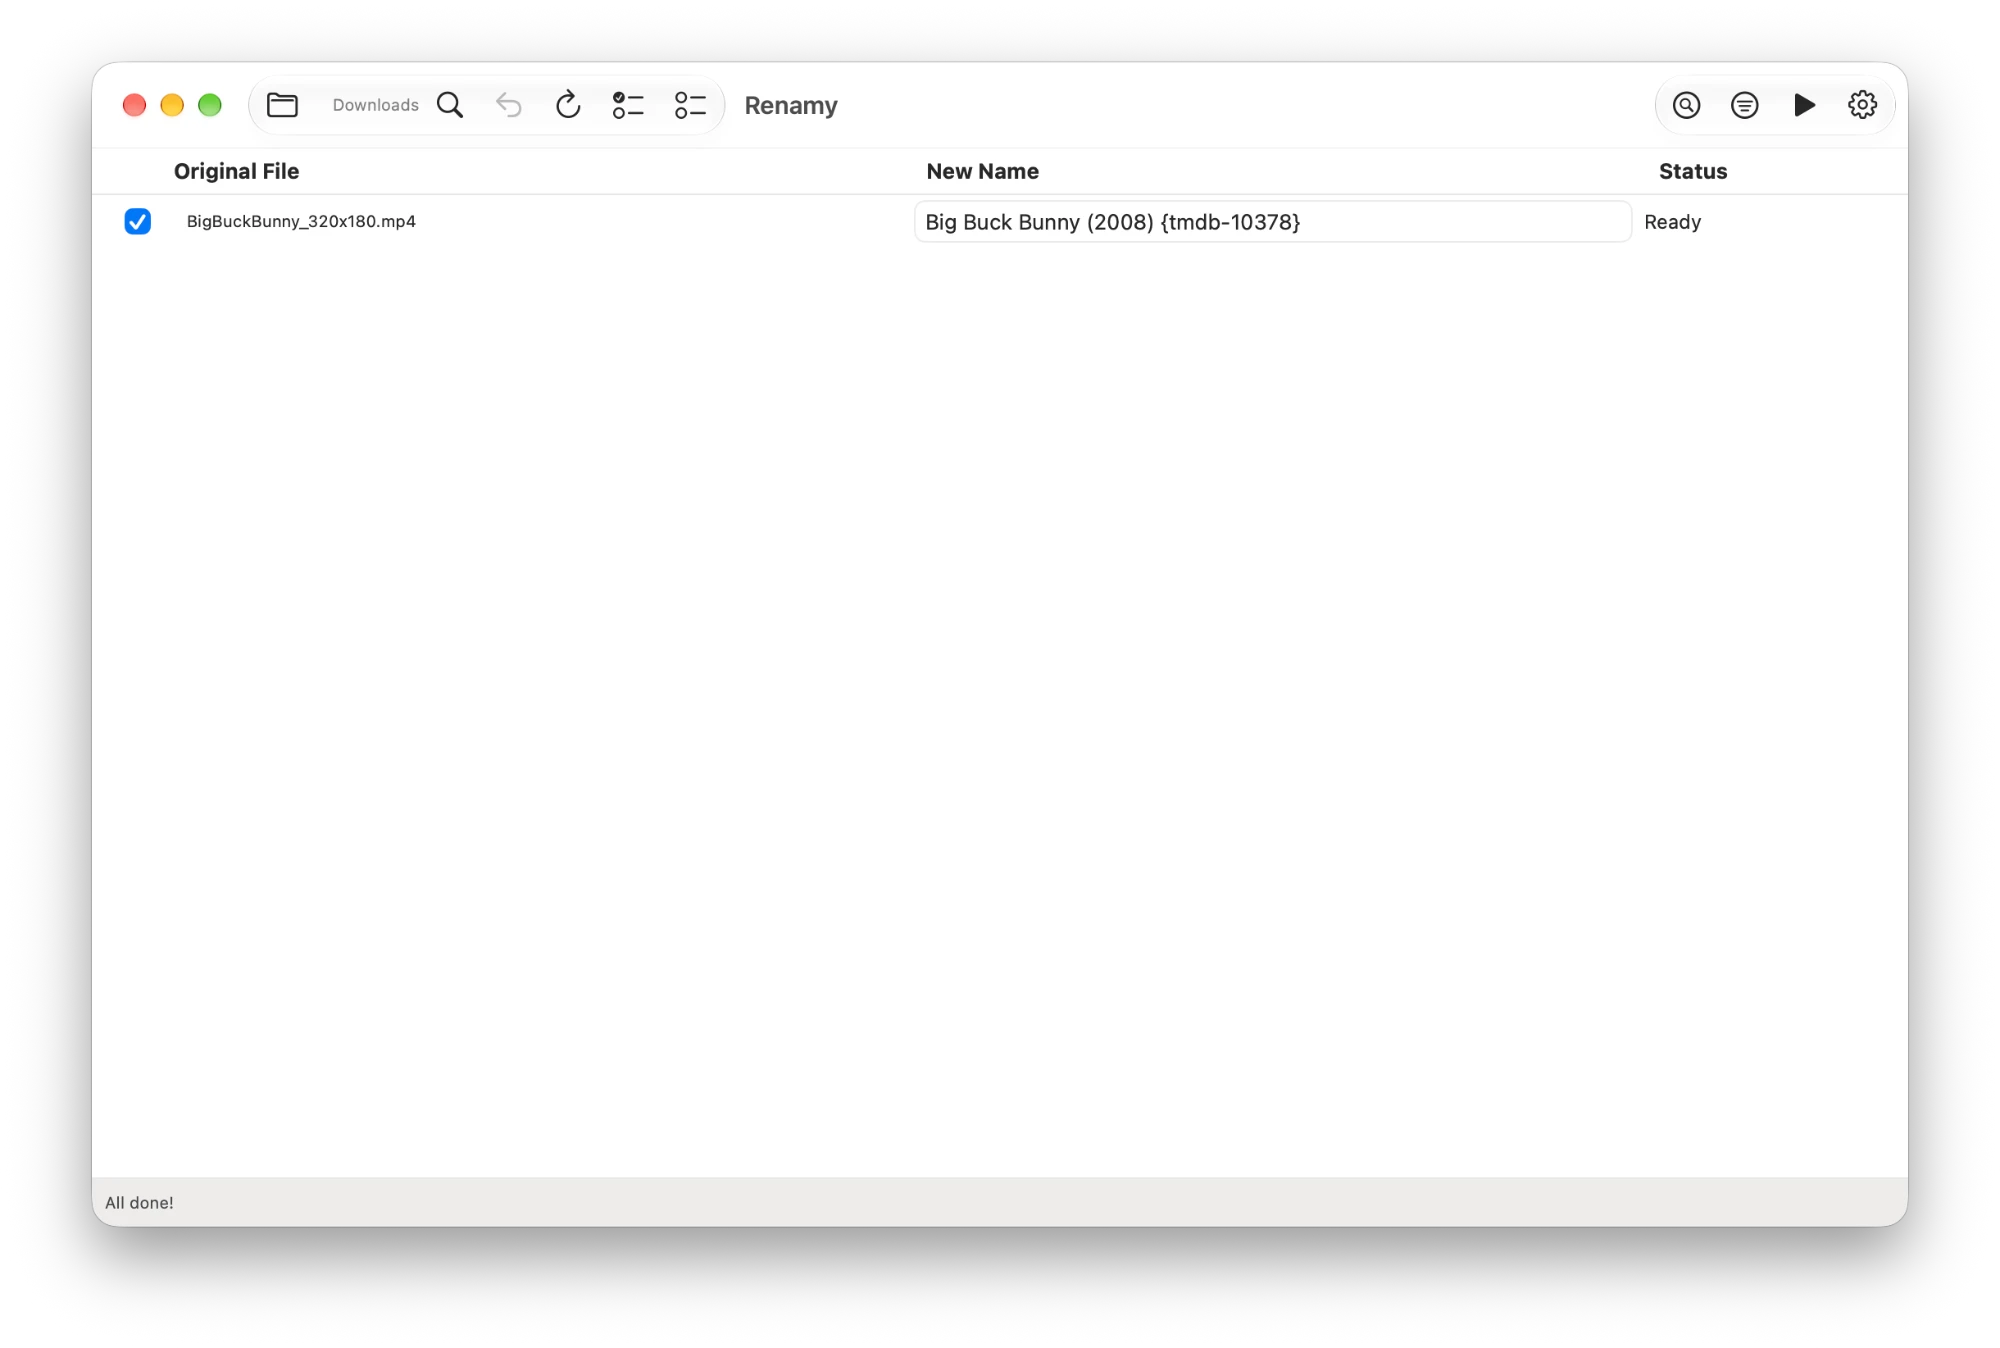
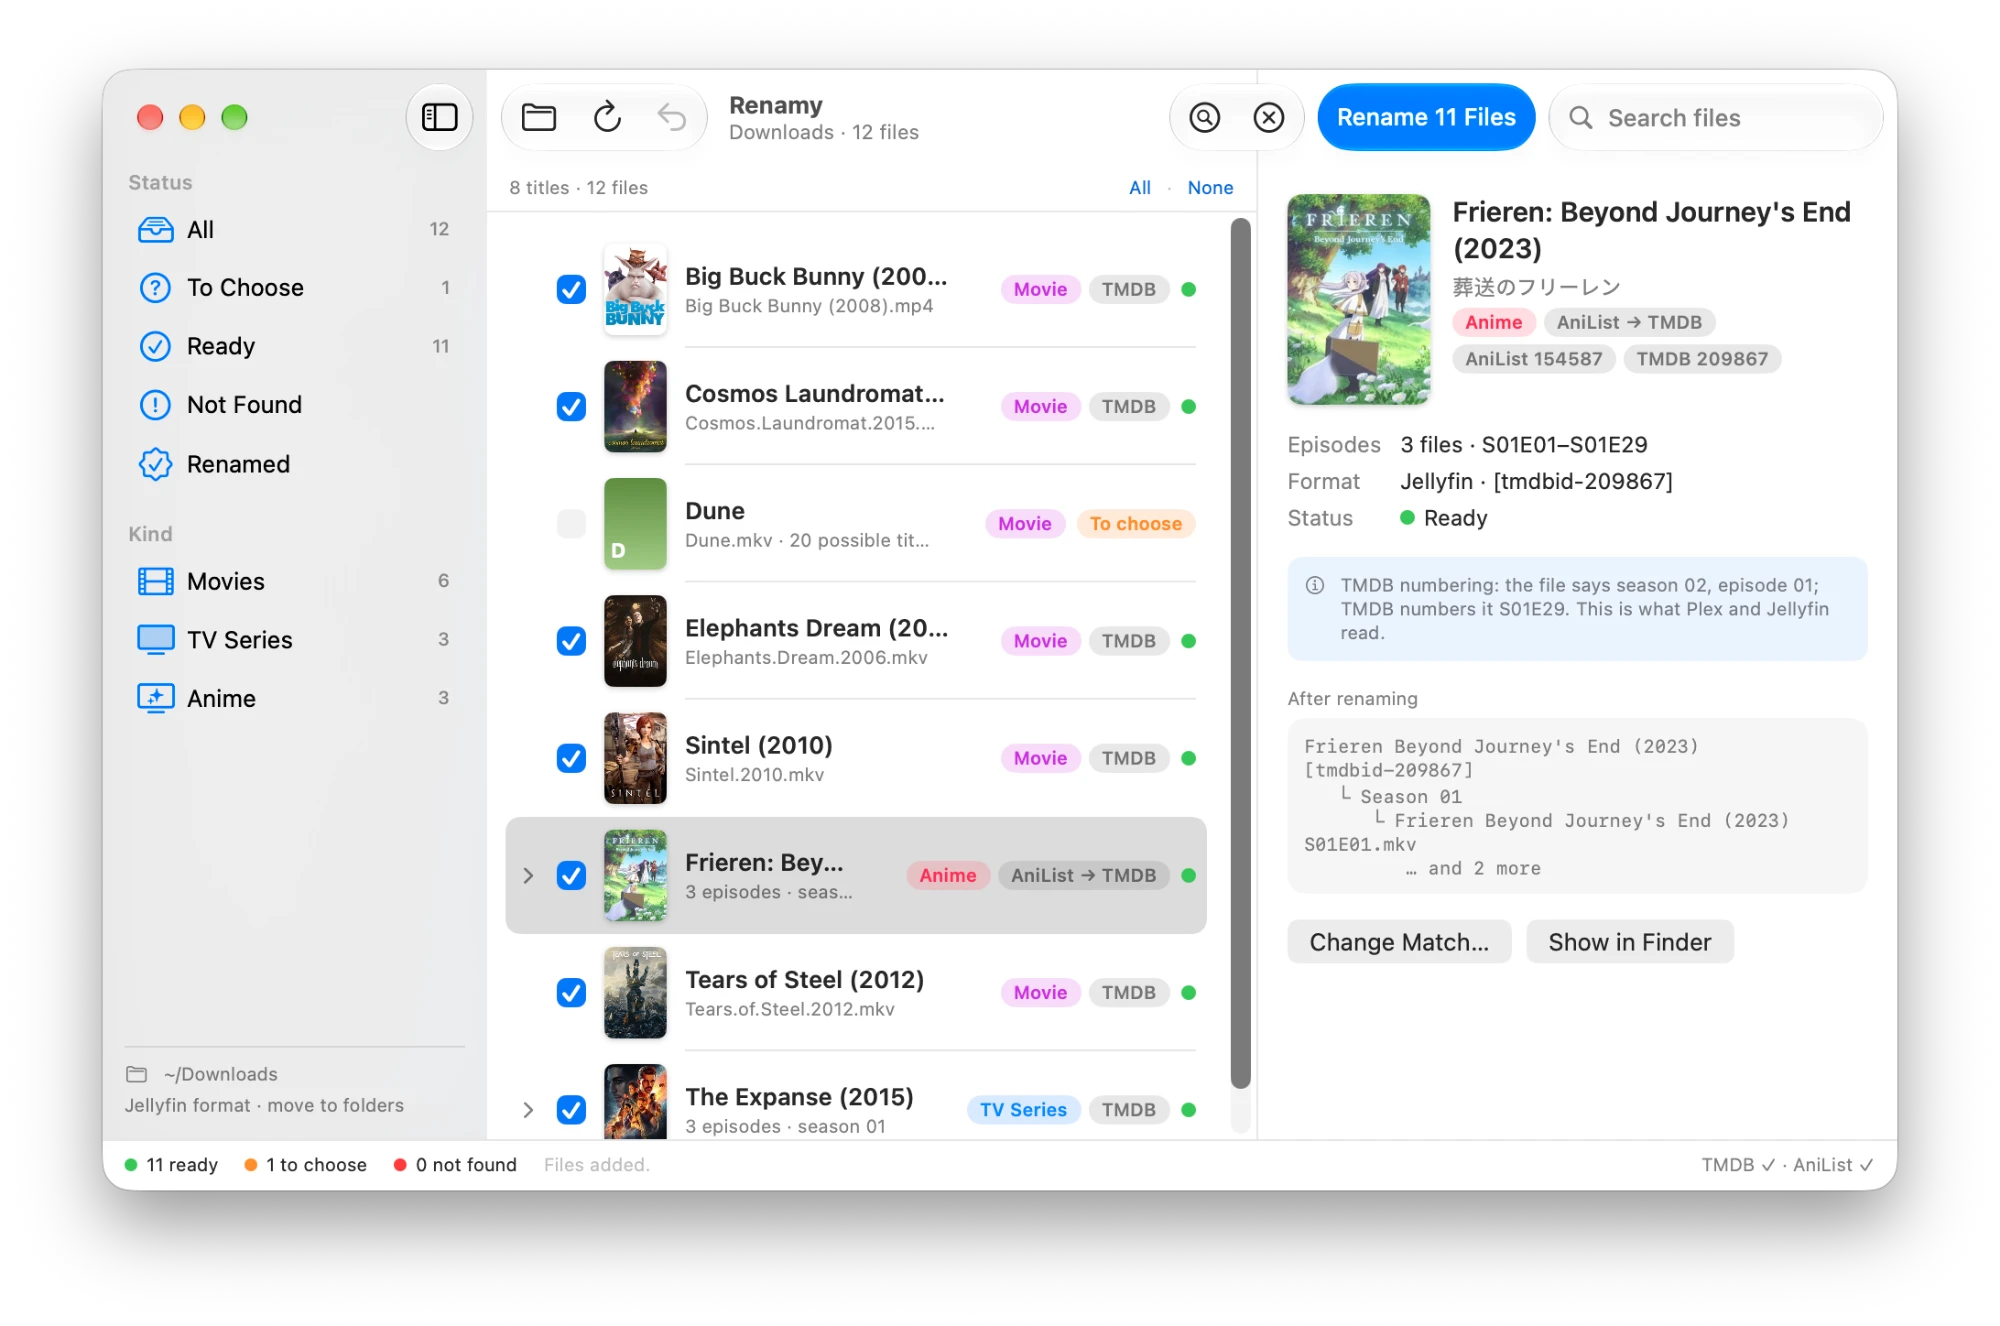
README for Renamy 3.0: new screenshots, anime support, privacy
- New screenshots of the main window, the choice between titles and
  the settings
- Features: three-column library, anime support, one choice per
  series and "Also apply to"
- Privacy: titles sent to TMDB and AniList, mapping downloaded from
  GitHub, posters from the image servers

diff --git a/README.md b/README.md
@@ -15,23 +15,29 @@
 > Renamy was previously called **Regia**. Settings are not migrated: re-enter your TMDB API Key after updating.
 
 ## ✨ Features
+- **Library at a Glance:** A three-column window with filters by status and kind, files grouped by series and movie with posters, and a details panel showing IDs, numbering and the folders that will be created.
 - **Smart Anchor Logic:** Intelligently identifies the movie or show title by detecting the year or season, cleaning up inconsistent filenames automatically.
-- **Metadata Integration:** Connects to TMDB to retrieve official titles and release years for accurate cataloging.
-- **TV Series Support:** Native recognition of standard season/episode numbering patterns (`SxxExx`), with a single choice for a whole season when a title is ambiguous.
+- **Metadata Integration:** Connects to TMDB to retrieve official titles, release years and posters for accurate cataloging.
+- **TV Series Support:** Recognizes `SxxExx`, `1x02`, absolute numbering (`Title - 05`), a season in the title (`S2 - 03`, `2nd Season - 04`) and episode numbers inside `Season 1` folders.
+- **Anime Support:** Anime-style names are matched on AniList (no key needed) and converted to the TMDB title, ID and season/episode numbering read by Plex and Jellyfin, using a community ID mapping refreshed every week. Can be turned off in Settings.
+- **One Choice per Series:** When a title is ambiguous, all episodes of the series are resolved with a single choice, and **Also apply to** offers the other files with the same title (only those in the same folder start checked).
 - **Structured Organization:** Optional feature to move files into a standardized folder hierarchy, compatible with popular media servers.
 - **Plex, Jellyfin & Emby Support:** Supports standardized naming conventions including identifiers (`{tmdb-id}` for Plex, `[tmdbid-id]` for Jellyfin).
 - **Manual Search by ID:** Fix any match by title, TMDB ID (`#12345`, `tv:12345`, `movie:12345`) or a themoviedb.org link.
 - **Drag & Drop:** Drop files or folders directly onto the window.
-- **Disambiguation:** User interface to manually select the correct match when multiple titles are found.
+- **Disambiguation:** Choose the right match in the details panel, with posters, years and sources; Enter to choose, Esc to cancel.
 - **Undo Capability:** Safety feature to revert the last rename or move operation instantly, including the folders it created.
 - **Appearance:** System, Light and Dark themes.
 - **Multi-language:** Native support for Italian 🇮🇹 and English 🇬🇧.
 
-<img width="1000" alt="Renamy Settings" src="docs/settings.png" />
+<img width="1000" alt="Choosing between matching titles" src="docs/choice.png" />
+
+<p align="center"><img width="560" alt="Renamy Settings" src="docs/settings.png" /></p>
 
 ## 🚀 Requirements
 - macOS 14.6 (Sonoma) or later.
 - A personal [TMDB API Key](https://developer.themoviedb.org/docs/getting-started) (Free) is required to fetch metadata. Both the v3 API Key and the v4 Read Access Token are supported.
+- Apple Silicon Mac.
 
 ---
 
@@ -60,7 +66,7 @@ brew upgrade --cask renamy
 ## 📥 Manual Installation (Pre-built App)
 
 1. Go to the **[Releases](../../releases)** section of this page.
-2. Download the latest `.zip` file (e.g., `Renamy_v2.0.1.zip`).
+2. Download the latest `.zip` file (e.g., `Renamy_v3.0.0.zip`).
 3. Unzip the file and move `Renamy.app` to your **Applications** folder.
 
 ### ⚠ Important: How to open the app
@@ -87,10 +93,12 @@ Since this is an open-source project and not signed with a paid Apple Developer 
 * [ ] **System Notifications:** Native macOS notifications when long processing tasks are finished.
 * [ ] **Custom Renaming Format:** A custom pattern editor (e.g., `{title} - [{year}]`) beyond the built-in presets.
 * [x] **Homebrew Support:** Install and update via `brew install --cask gionnio/tap/renamy`.
+* [x] **Anime Support:** AniList matching with TMDB numbering.
+* [x] **New Interface:** Three-column window with posters and a details panel.
 
 ## Privacy & Security
 
-This application runs locally on your device. API Keys and file information are processed on your Mac and are never sent to external servers other than the official TMDB API for metadata retrieval.
+This application runs locally on your device. Your TMDB API Key stays in the app preferences on your Mac. Only the titles to look up are sent to the official TMDB API and, for anime-style names, to the AniList API; the anime ID mapping is downloaded from its public GitHub repository ([Fribb/anime-lists](https://github.com/Fribb/anime-lists)) and kept in the app cache. Posters are loaded from the TMDB and AniList image servers. File names and folders never leave your Mac.
 
 ## 🤖 AI Acknowledgment
 
